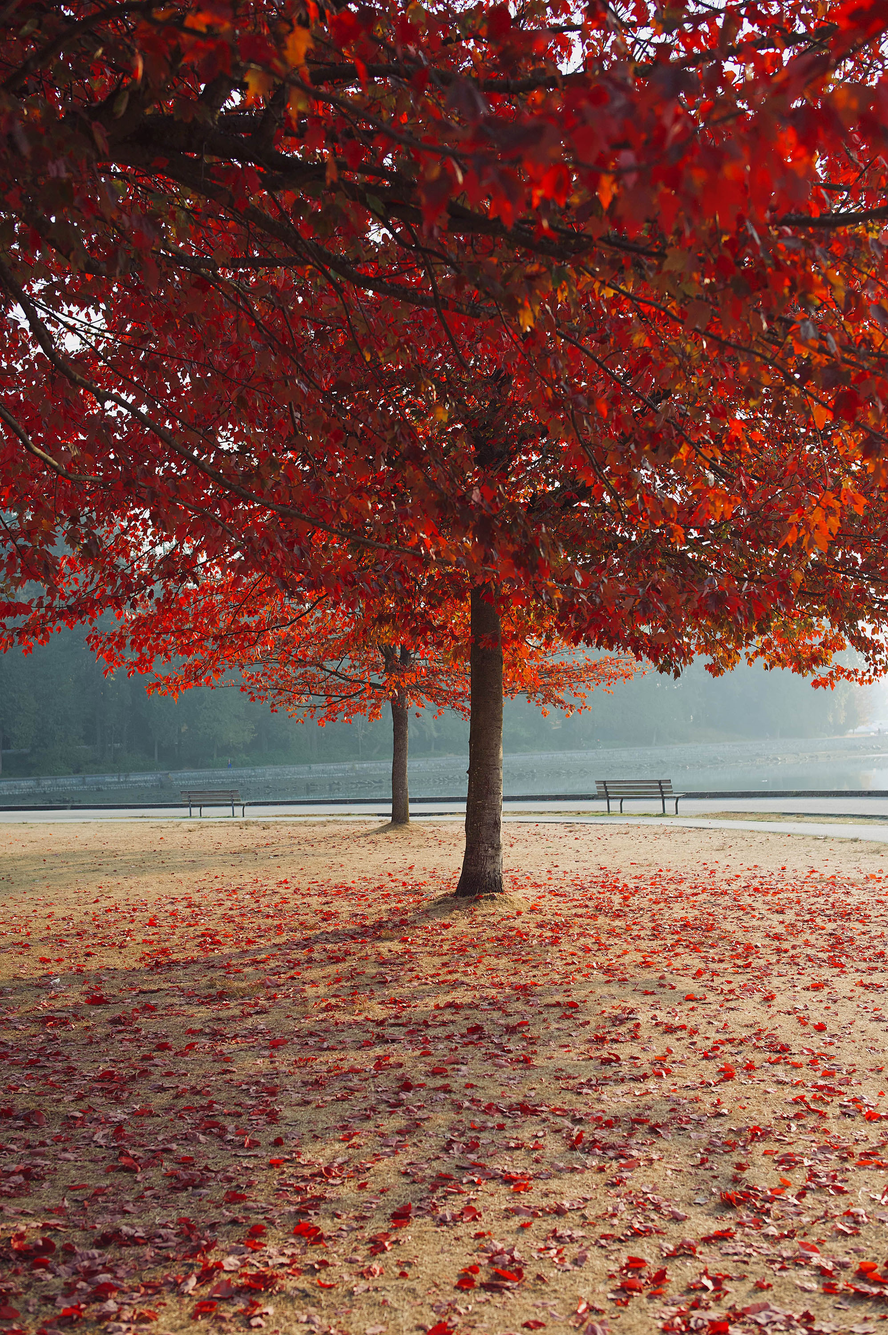
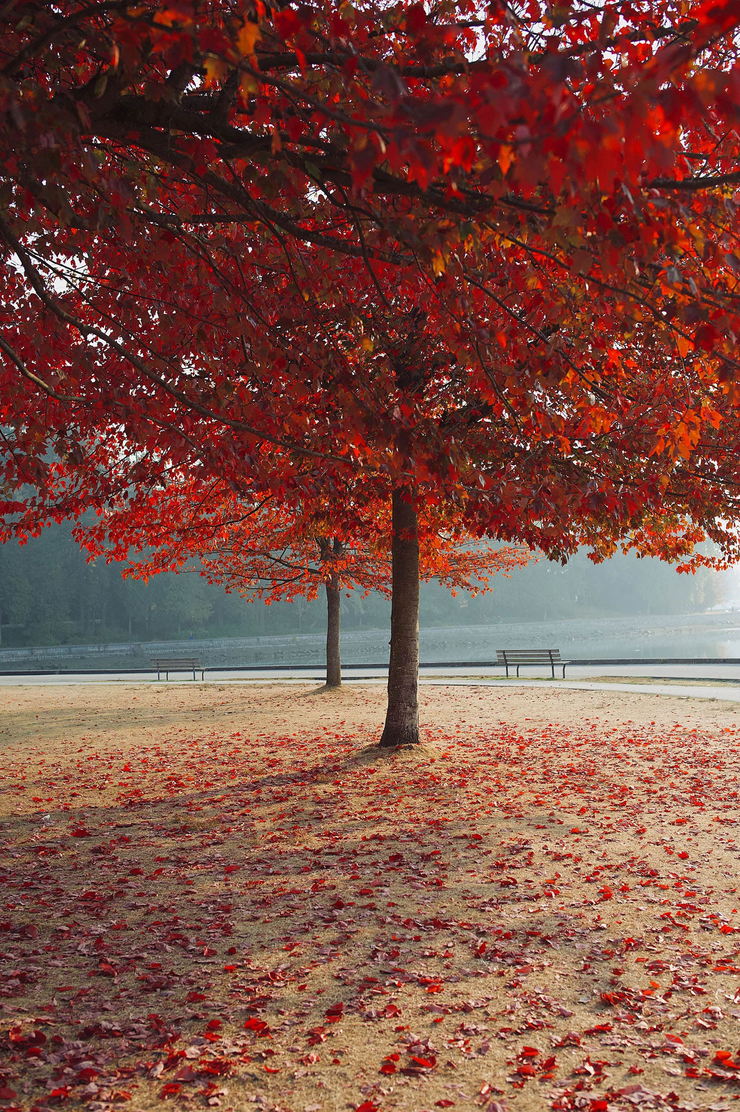
More image optimisation + bio page??

diff --git a/bio.html b/bio.html
@@ -1,0 +1,29 @@
+<!DOCTYPE html>
+<html lang="en">
+  <head>
+    <meta charset="utf-8" />
+    <title>Mark's Bio</title>
+    <link href="./styles.css" rel="stylesheet" />
+    <link
+      href="https://fonts.googleapis.com/css2?family=DM+Mono:wght@300;400;500&display=swap"
+      rel="stylesheet"
+    />
+  </head>
+  <body>
+    <div id="nav">
+      <a href="./index.html">Photography Portfolio</a>
+      <div id="secondary-nav">
+        <a href="./index.html">Travel</a>
+        <a href="./index.html">Wildlife</a>
+        <a href="./bio.html">Bio</a>
+      </div>
+    </div>
+    <div id="header">
+      <h1>I like taking photos.</h1>
+    </div>
+
+    <div id="footer">
+      <p>Copyright 2023 @markcwy</p>
+    </div>
+  </body>
+</html>

diff --git a/index.html b/index.html
@@ -15,7 +15,7 @@
       <div id="secondary-nav">
         <a href="./index.html">Travel</a>
         <a href="./index.html">Wildlife</a>
-        <a href="./index.html">Bio</a>
+        <a href="./bio.html">Bio</a>
       </div>
     </div>
     <div id="header">

diff --git a/styles.css b/styles.css
@@ -64,6 +64,7 @@ h3 {
   display: block;
   position: sticky;
   top: 70px;
+  margin-top: 28px;
   font-size: 9vw;
   letter-spacing: -0.5vw;
   text-align: center;
